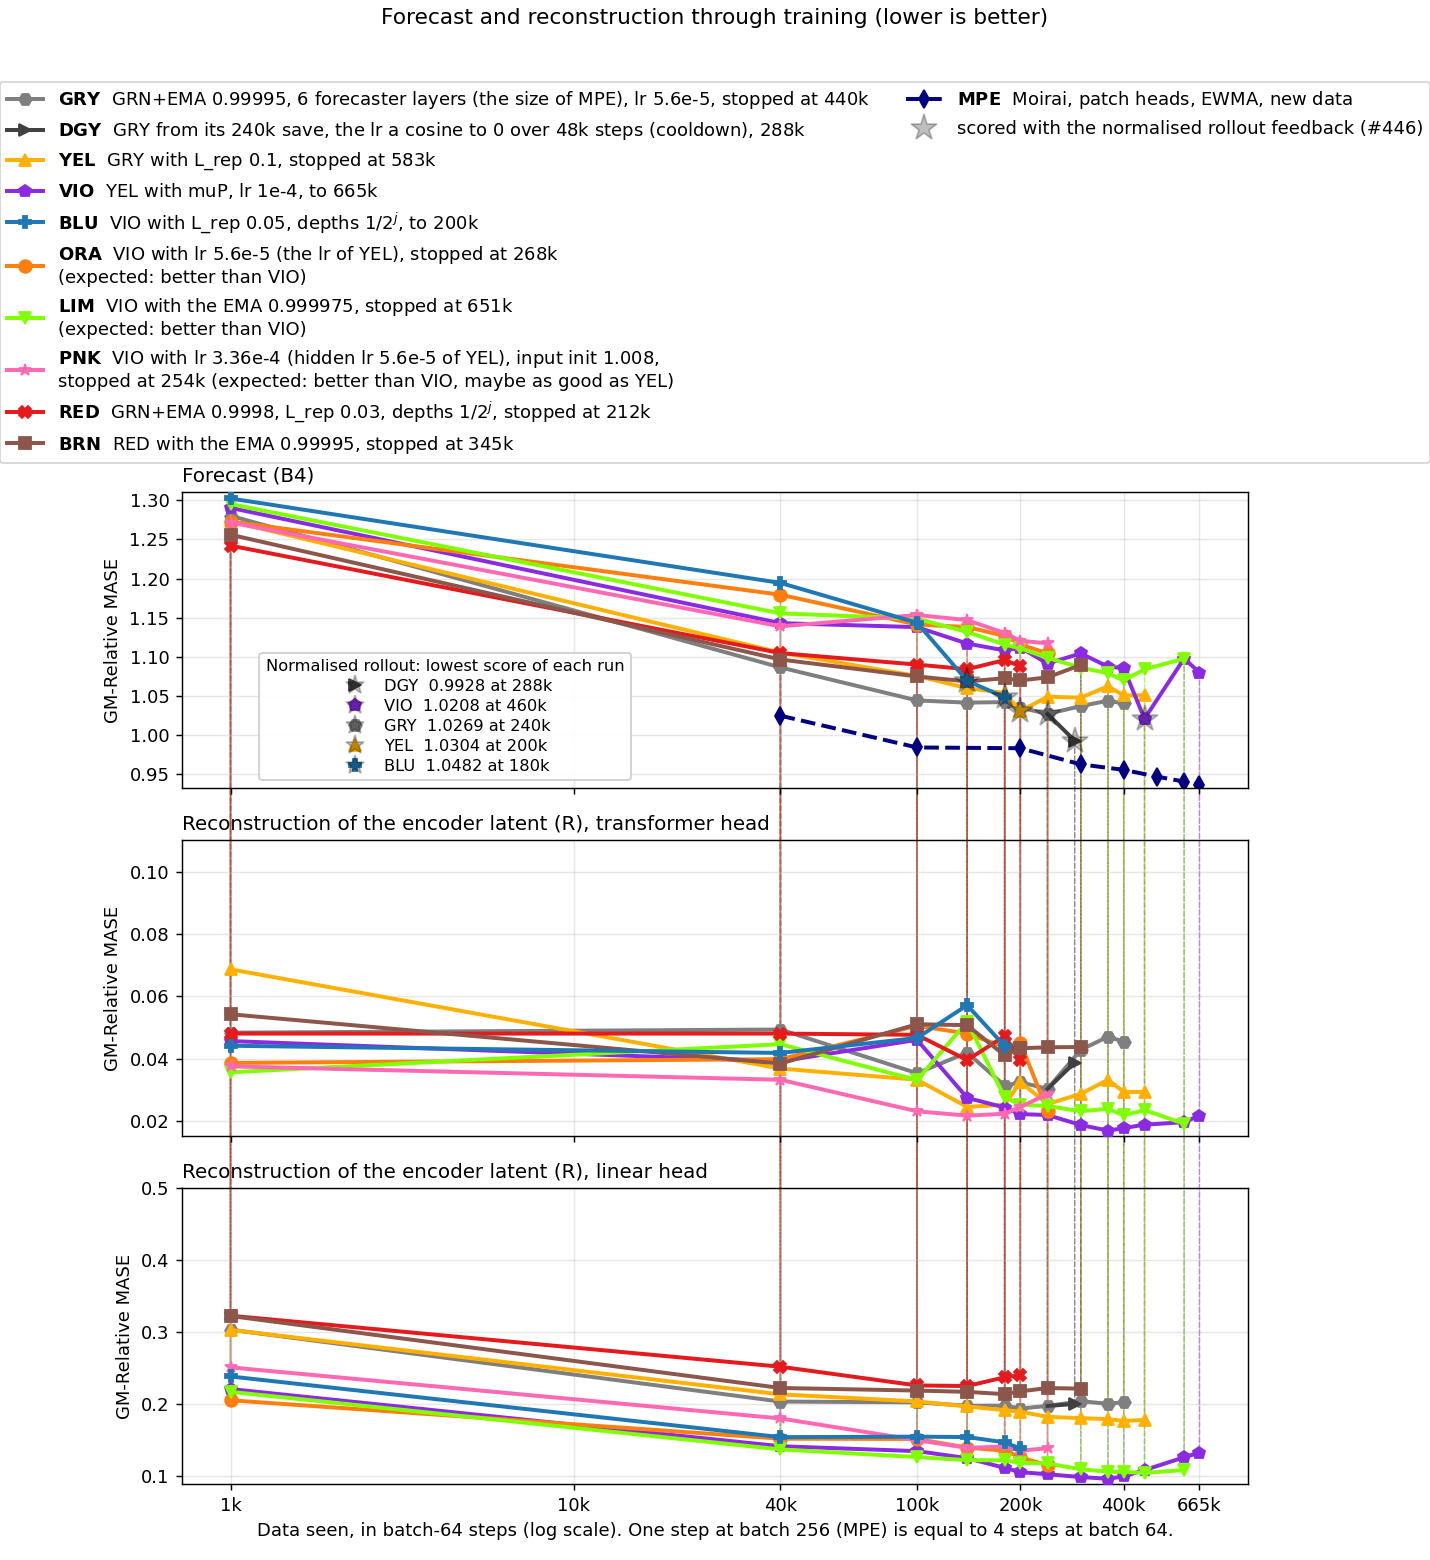
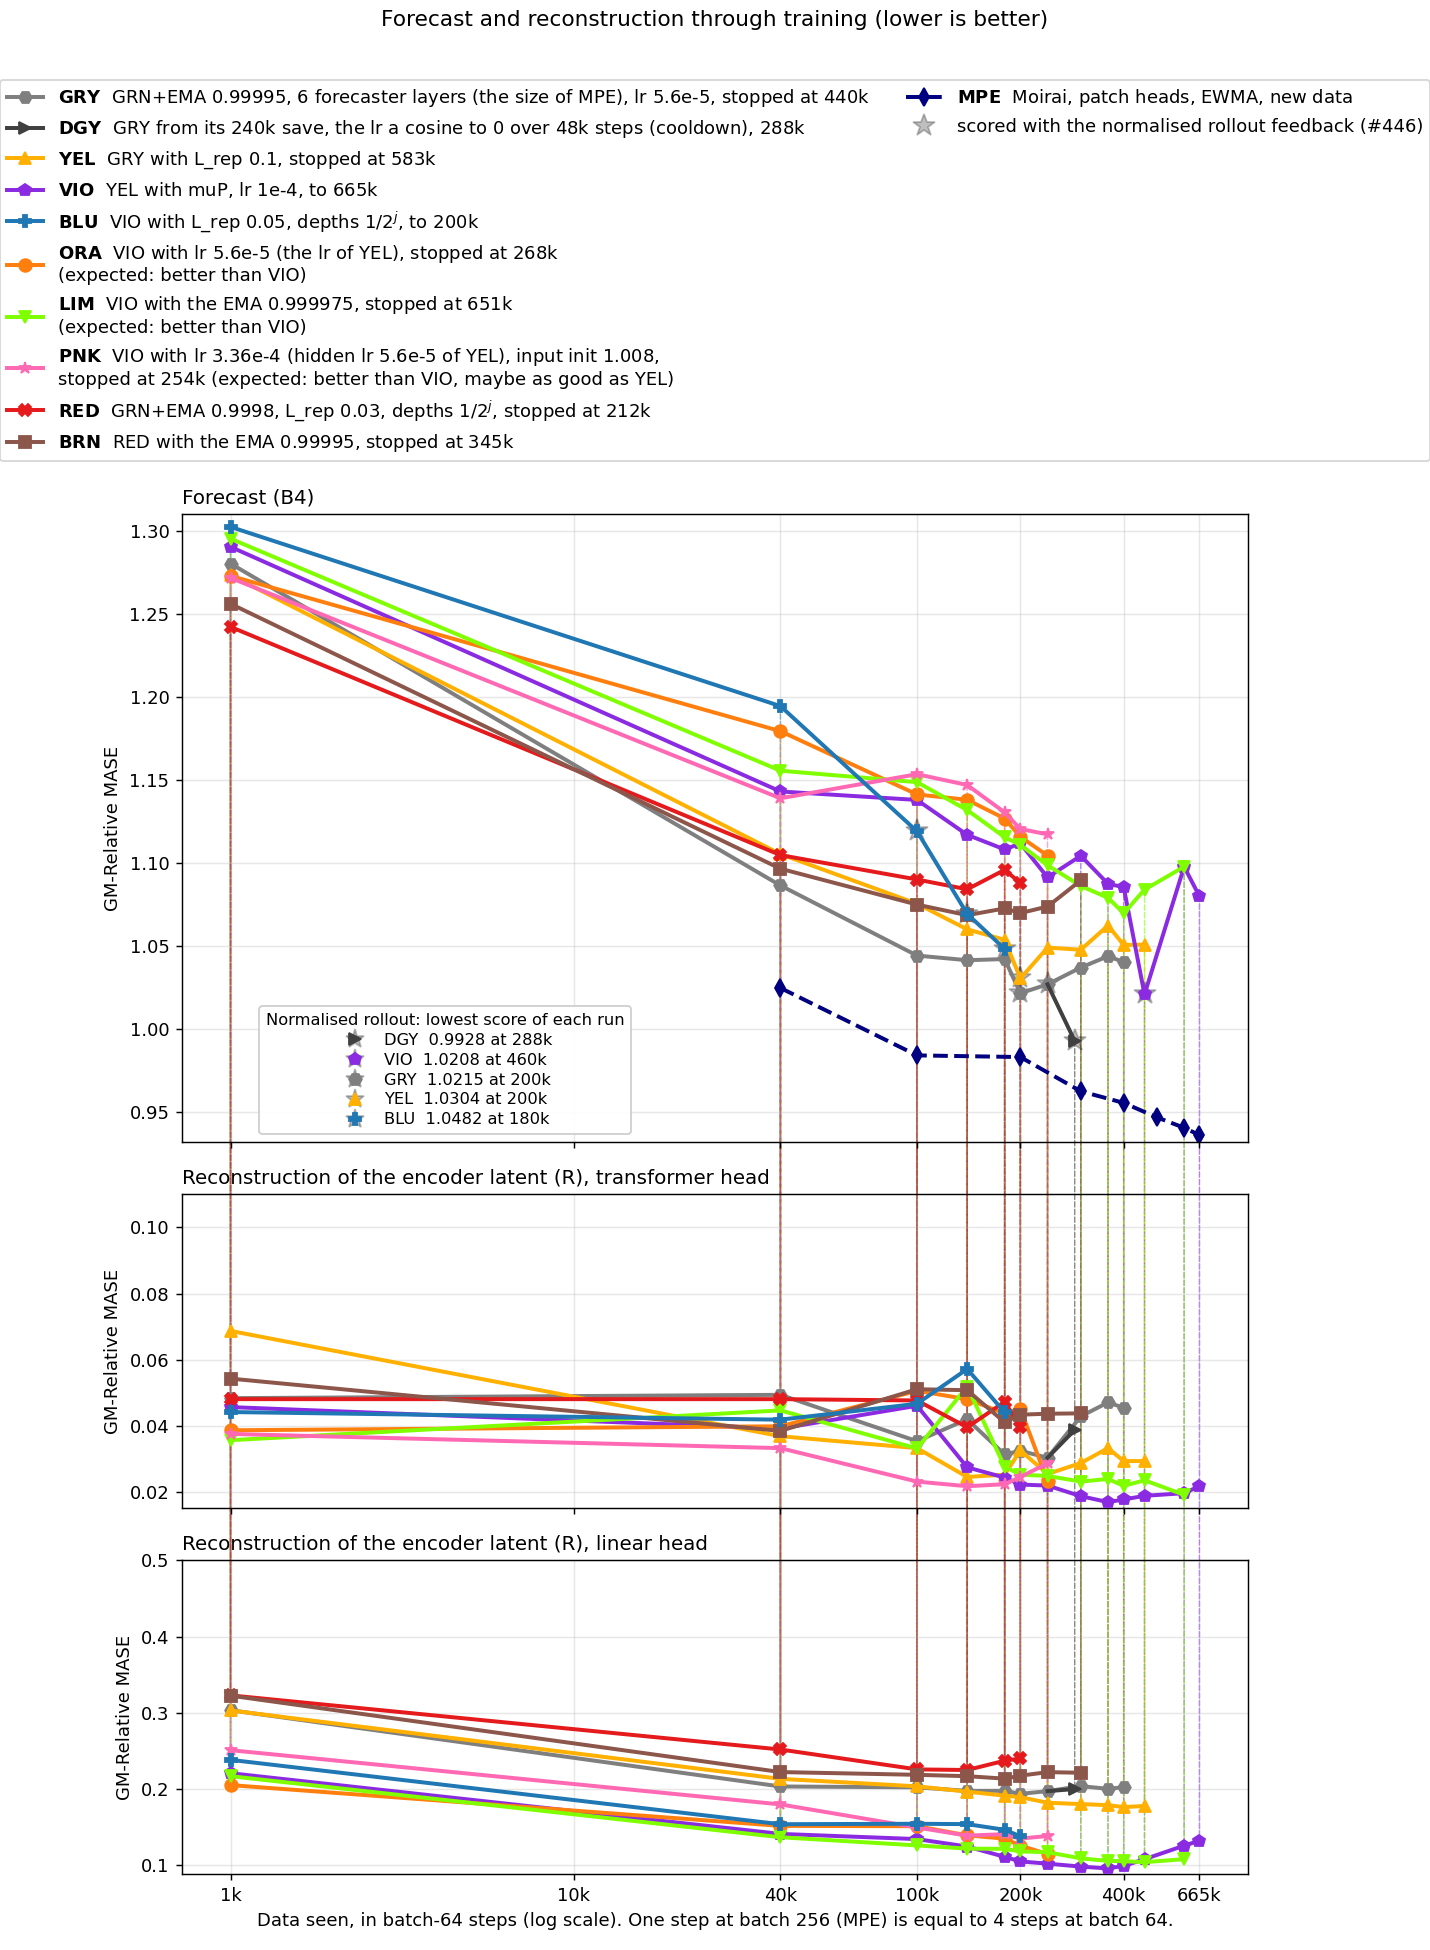
freq_family report: rescores of grey 200k (1.0215) and blue 100k (1.1190); a taller forecast panel
Grey at 200k and yellow at 200k lie 0.009 apart: the forecast panel is now
twice as tall as an R panel, and the asterisk lies under the run markers.

diff --git a/reports/2026-10-10_frequency_family_head/scripts/plot_green_scores.py b/reports/2026-10-10_frequency_family_head/scripts/plot_green_scores.py
@@ -252,9 +252,10 @@ def draw_panel(ax, title, y_range, points, starred=None):
         ax.plot([s * 1000 for s in stops], values, color=colour_hex, marker=marker,
                 ls=style, lw=2.2, ms=7, label=label,
                 zorder=5 if arm in FRONT else 4 if arm in BRANCHES else 3 if arm in ON_TOP else 2)
+        # the asterisk lies under the run lines: a marker of another run near it stays visible
         for stop in sorted(set(stops) & (starred or {}).get(arm, set())):
-            ax.plot(stop * 1000, min(points[arm][stop], y_range[1]), marker="*", ms=15,
-                    color="black", alpha=0.25, ls="none", zorder=6)
+            ax.plot(stop * 1000, min(points[arm][stop], y_range[1]), marker="*", ms=13,
+                    color="black", alpha=0.25, ls="none", zorder=1.9)
         for stop, value in zip(stops, values):
             if value > y_range[1]:
                 ax.plot(stop * 1000, y_range[1], "^", ms=11, color=colour_hex, clip_on=False)
@@ -333,8 +334,8 @@ def draw_value_box(ax, fixed):
     rollout feedback of each run, lowest first, with the marker of the run."""
     rows = sorted((min(fixed[arm].values()), arm, label, colour_hex, marker)
                   for arm, label, colour_hex, marker in RUNS if fixed.get(arm))
-    handles = [(Line2D([], [], marker=marker, color=colour_hex, ls="none", ms=7),
-                Line2D([], [], marker="*", ms=11, color="black", alpha=0.25, ls="none"))
+    handles = [(Line2D([], [], marker="*", ms=11, color="black", alpha=0.25, ls="none"),
+                Line2D([], [], marker=marker, color=colour_hex, ls="none", ms=7))
                for *_, colour_hex, marker in rows]
     labels = [value_label(arm, label, fixed[arm]) for _, arm, label, _, _ in rows]
     box = ax.legend(handles, labels, loc="lower left", bbox_to_anchor=(0.065, 0.0), fontsize=9,
@@ -344,7 +345,8 @@ def draw_value_box(ax, fixed):
 
 
 def main():
-    fig, axes = plt.subplots(3, 1, sharex=True, figsize=(11, 12))
+    # The forecast panel is twice as tall as an R panel: its late points lie close together.
+    fig, axes = plt.subplots(3, 1, sharex=True, figsize=(11, 15), gridspec_kw={"height_ratios": [2, 1, 1]})
     all_points = []
     starred = normalised_points()
     for ax, (title, y_range, tables, forecast) in zip(axes, PANELS):
@@ -356,7 +358,7 @@ def main():
     # Blank rows after the older runs: the runs of this report fill the left column.
     handles, labels = legend_entries(axes)
     if any(starred.get(arm, set()) & set(all_points[0].get(arm, {})) for arm in starred):
-        handles.append(Line2D([], [], marker="*", ms=15, color="black", alpha=0.25, ls="none"))
+        handles.append(Line2D([], [], marker="*", ms=13, color="black", alpha=0.25, ls="none"))
         labels.append("scored with the normalised rollout feedback (#446)")
     new_labels = {label for arm, label, _, _ in RUNS if arm in NEW_RUNS}
     blanks = max(0, 2 * sum(label in new_labels for label in labels) - len(handles))

diff --git a/reports/2026-10-10_frequency_family_head/frequency_family_head.md b/reports/2026-10-10_frequency_family_head/frequency_family_head.md
@@ -15,12 +15,13 @@ Violet has its lowest forecast MASE, 1.0779, at 460k.
 At 665k, the end of its training, it gets 1.0799 (1.0977 at 600k).
 Its R scores at 665k are 0.0218 (transformer head) and 0.1323 (linear head).
 Blue (violet with the L_rep weight 0.05 and the depth weights 1/2^j) gets 1.0693 at 140k with the normalised rollout of #446.
-At 100k, with the raw rollout, it gets 1.1435.
+At 100k, it gets 1.1190 with the normalised rollout and 1.1435 with the raw rollout.
 At 140k, with the raw rollout, grey gets 1.0414, yellow 1.0600 and violet 1.1169.
 At 180k, blue gets 1.0482 with the normalised rollout, its lowest score.
 At 180k, with the raw rollout, grey gets 1.0421 and yellow 1.0537.
 A light asterisk marks each score with the normalised rollout.
 With the normalised rollout, the best stops of grey (1.0269 at 240k), yellow (1.0304 at 200k) and violet (1.0208 at 460k) are below blue at 180k (1.0482).
+Grey at 200k gets 1.0215 with the normalised rollout, its lowest score.
 
 ## Learning rate
 
@@ -149,6 +150,7 @@ Session think-contrastive fixes the second and the third point (#443, #446 and #
 With the normalised rollout of #446, grey at 400k gets 1.0331 with 1024 context values and 1.0555 with 4096 values.
 So the eval keeps 1024 values (#449).
 With the normalised rollout, DGY at 288k gets 0.9928, violet at 460k 1.0208, grey at 240k 1.0269 and yellow at 200k 1.0304.
+More stops get the normalised rollout on the box: grey at 200k gets 1.0215 (raw rollout 1.0351) and blue at 100k 1.1190 (raw rollout 1.1435).
 With the raw rollout, the same heads give 1.0238, 1.0779, 1.0341 and 1.0467.
 In the line of each run, the score of the normalised rollout replaces the score of the raw rollout at each rescored stop (results/best_stop_rescores.tsv).
 A light asterisk marks these points.
